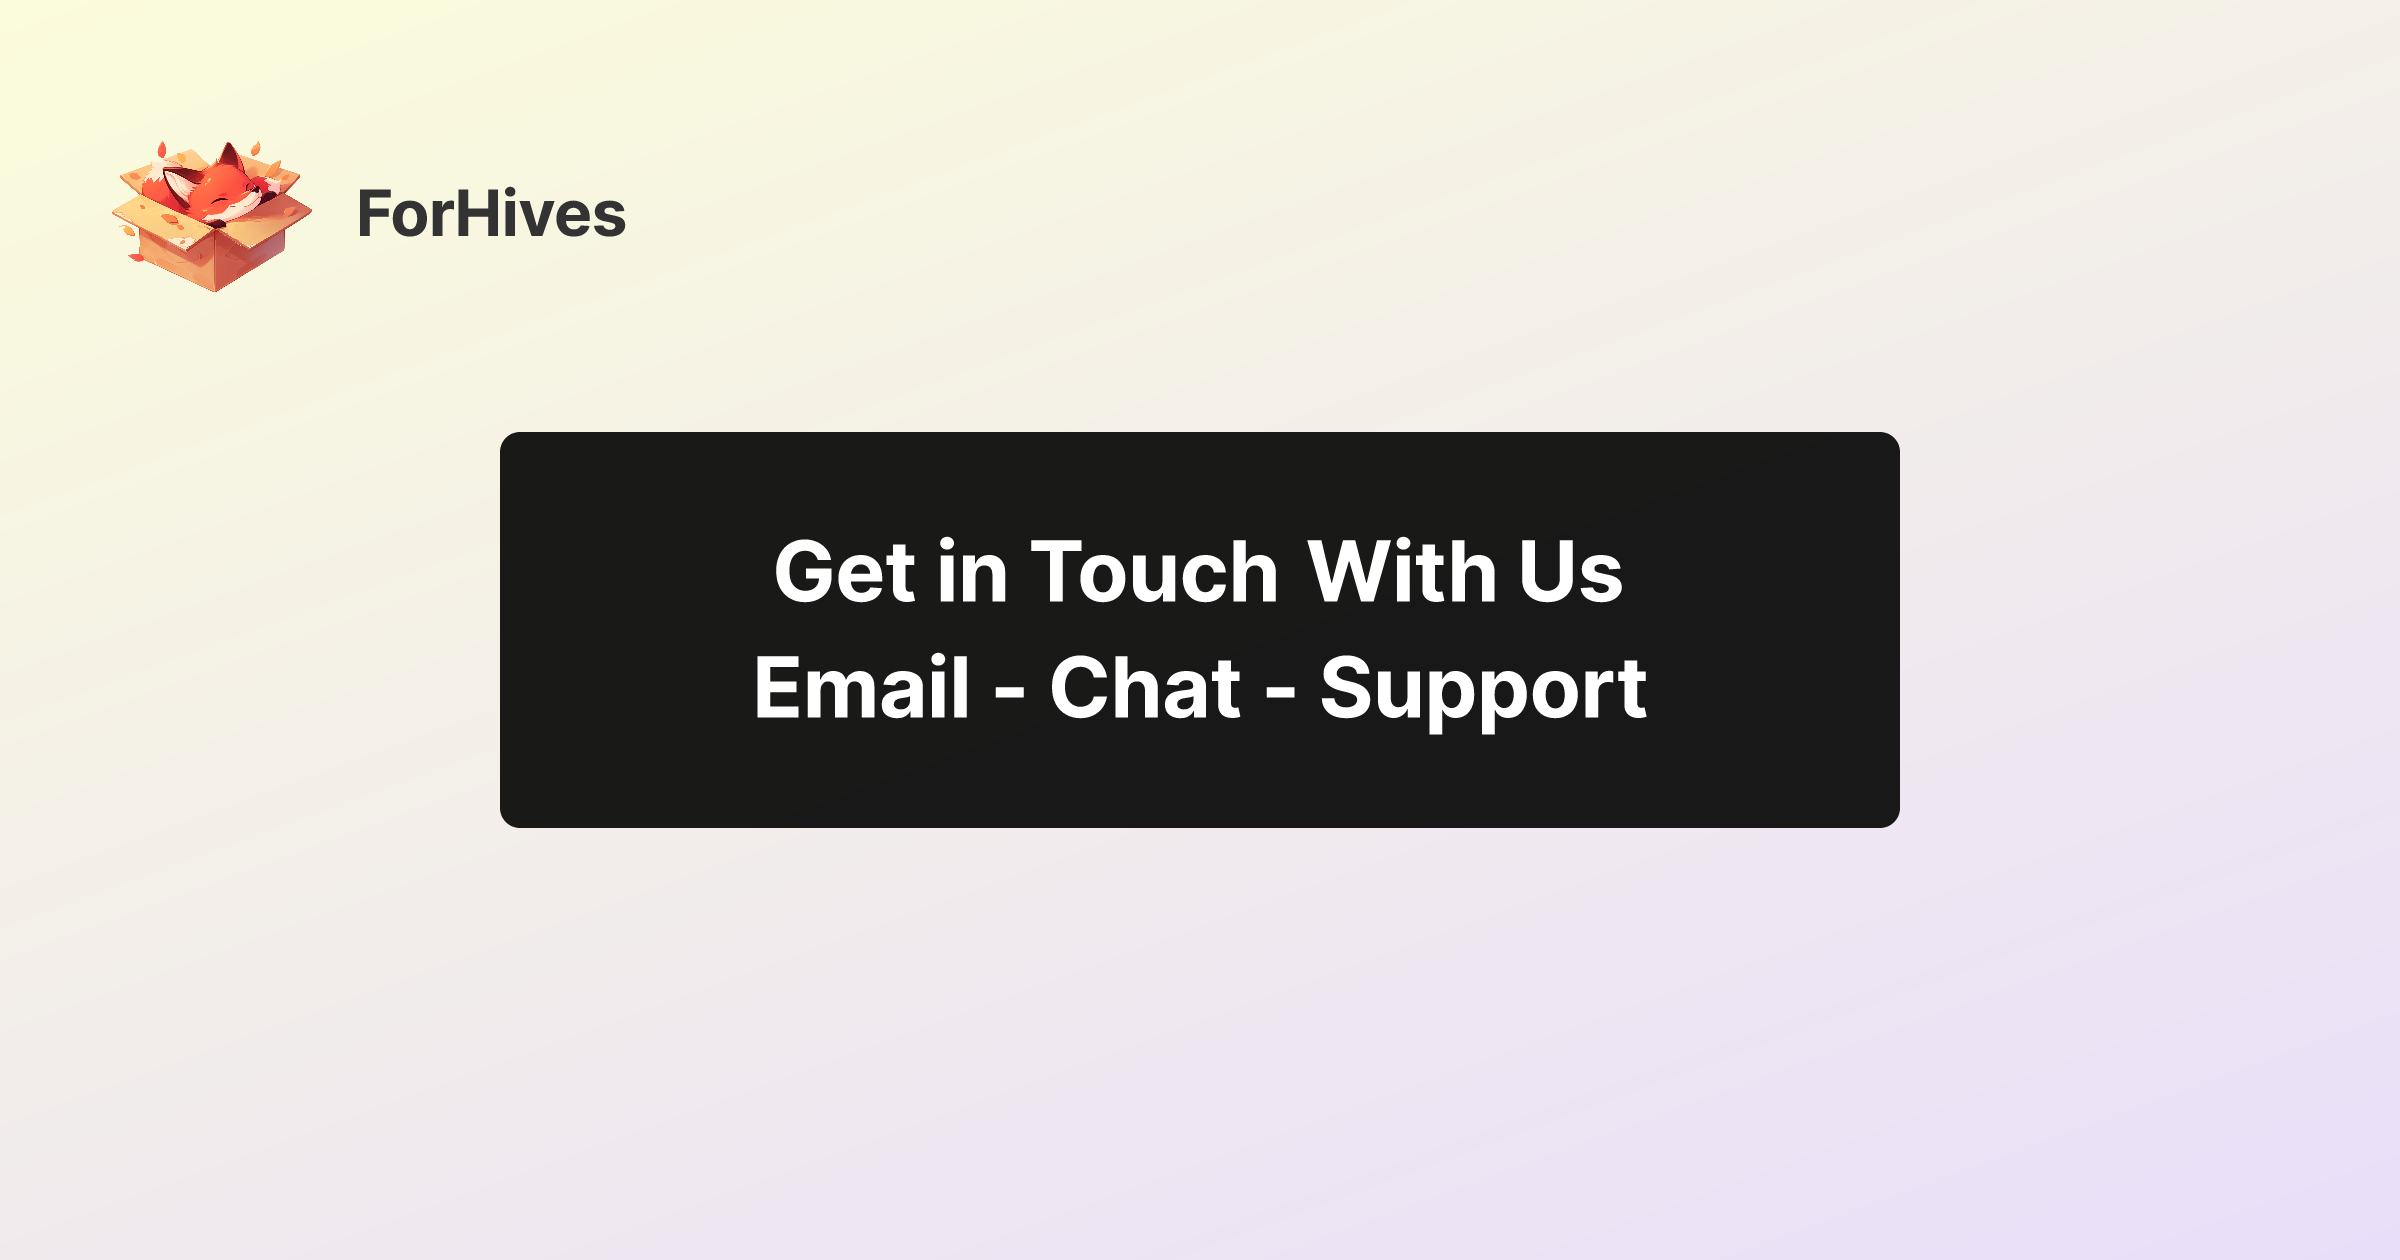
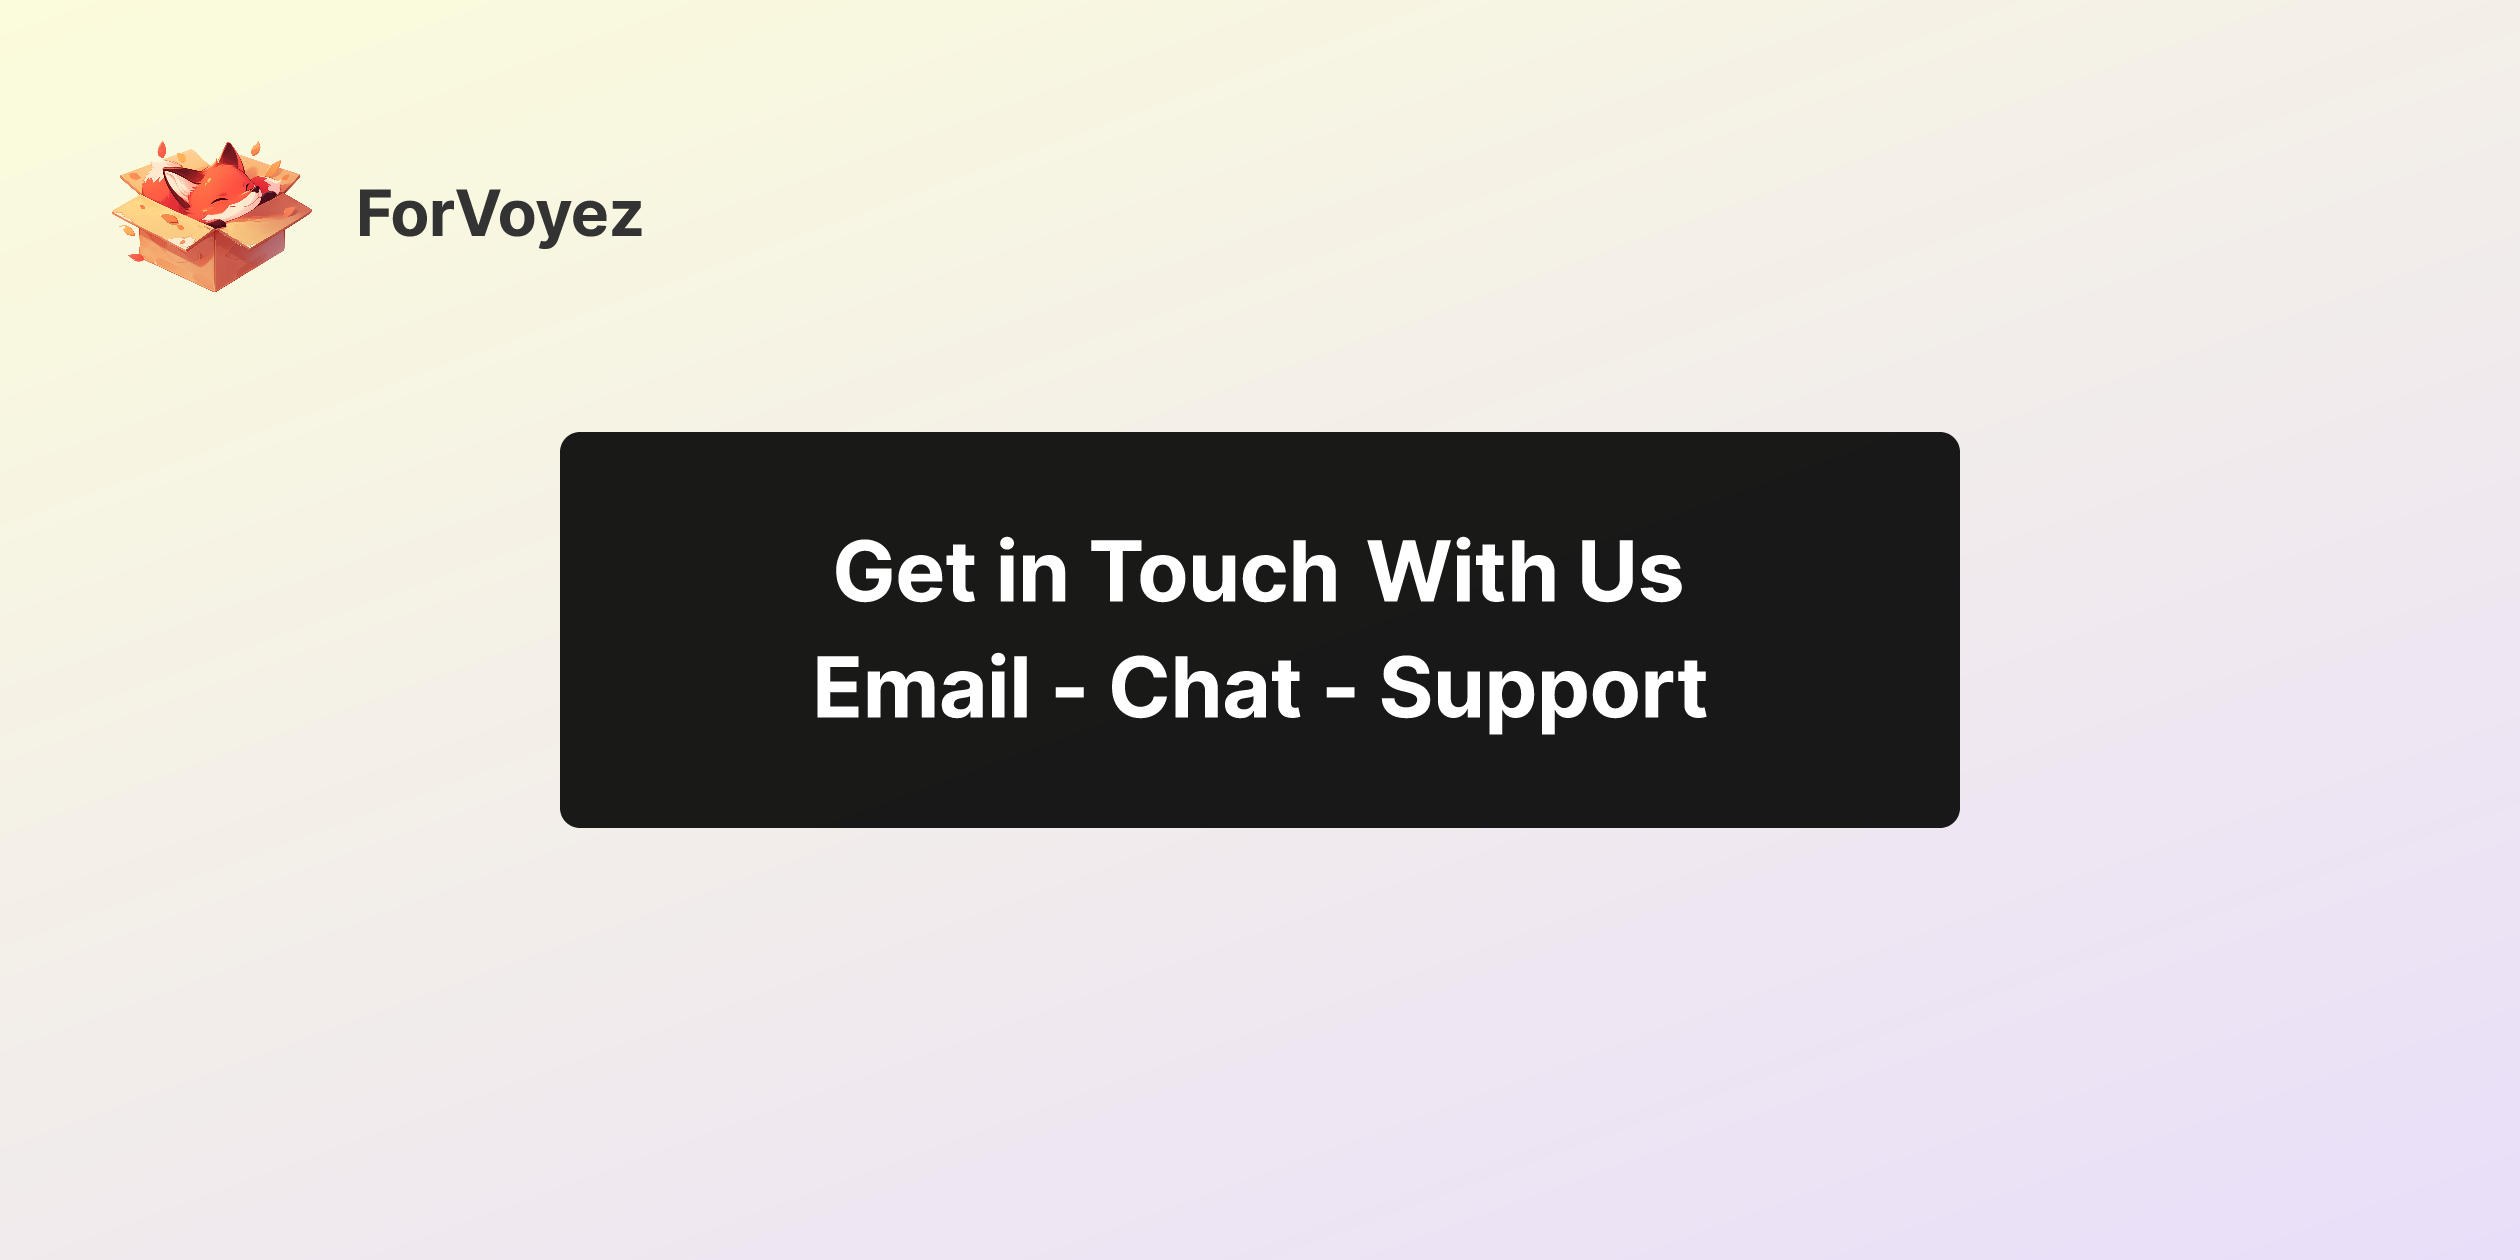
feat: update every seo elements, og etc

diff --git a/src/app/(dashboard)/app/legals/layout.js b/src/app/(dashboard)/app/legals/layout.js
@@ -1,10 +1,66 @@
+export const viewport = {
+	themeColor: [
+		{ media: '(prefers-color-scheme: light)', color: '#FF6545' },
+		{ media: '(prefers-color-scheme: dark)', color: '#FF6545' },
+	],
+	width: 'device-width',
+	initialScale: 1,
+}
+
 export const metadata = {
+	openGraph: {
+		description:
+			"Access ForVoyez's terms of service, privacy policy, and other legal documents. Understand our commitment to data protection and user privacy.",
+		images: [
+			{
+				alt: 'ForVoyez Legal Documentation',
+				url: '/og/legals.png',
+				width: 1200,
+				height: 630,
+			},
+		],
+		title: 'Legal Information & Documentation - ForVoyez',
+		type: 'website',
+	},
+	twitter: {
+		description:
+			'Official legal documentation and policies for ForVoyez image metadata services.',
+		title: 'ForVoyez Legal Documentation',
+		card: 'summary_large_image',
+		images: '/og/legals.png',
+	},
+
+	keywords: [
+		'ForVoyez legal',
+		'terms of service',
+		'privacy policy',
+		'data protection',
+		'user agreement',
+		'legal documentation',
+		'cookie policy',
+		'service terms',
+		'user rights',
+	].join(', '),
+
 	description:
-		'Access the legal information for ForVoyez, including our legal notice, privacy policy, and terms of service.',
+		"Review ForVoyez's legal documents, including Terms of Service, Privacy Policy, and legal notices. Learn about your rights and our data handling practices.",
+
+	robots: {
+		'max-image-preview': 'large',
+		'max-video-preview': -1,
+		'max-snippet': -1,
+		follow: true,
+		index: true,
+	},
+
+	title: {
+		template: '%s | Legal Information - ForVoyez',
+		default: 'Legal Information - ForVoyez',
+	},
+
 	alternates: {
 		canonical: '/app/legals',
 	},
-	title: 'Legal - ForVoyez',
 }
 
 export default function Layout({ children }) {

diff --git a/src/app/(dashboard)/app/layout.js b/src/app/(dashboard)/app/layout.js
@@ -1,12 +1,62 @@
 import { LayoutAppComponent } from '@/components/App/LayoutApp.component'
 
+// app/(dashboard)/app/layout.js
+export const viewport = {
+	themeColor: [
+		{ media: '(prefers-color-scheme: light)', color: '#FF6545' },
+		{ media: '(prefers-color-scheme: dark)', color: '#FF6545' },
+	],
+	width: 'device-width',
+	colorScheme: 'light',
+	initialScale: 1,
+}
+
 export const metadata = {
+	openGraph: {
+		images: [
+			{
+				alt: 'ForVoyez Developer Dashboard Interface',
+				url: '/og/dashboard.png',
+				width: 1200,
+				height: 630,
+			},
+		],
+		description:
+			'Access powerful image metadata generation tools, manage API keys, and monitor usage all in one place.',
+		title: 'ForVoyez Developer Platform',
+		type: 'website',
+	},
+	keywords: [
+		'developer dashboard',
+		'API management',
+		'usage monitoring',
+		'API keys',
+		'image metadata',
+		'developer tools',
+		'ForVoyez platform',
+		'API analytics',
+		'developer console',
+	].join(', '),
+
 	description:
-		'Access your ForVoyez dashboard to manage your API keys, monitor usage, and explore our powerful image metadata generation capabilities.',
+		'Manage your ForVoyez API integration, monitor usage metrics, and access our powerful image metadata generation tools in one central dashboard.',
+
+	robots: {
+		'max-snippet': -1,
+		nofollow: true,
+		follow: false,
+		noindex: true,
+		index: false,
+	},
+
+	title: {
+		default: 'Developer Dashboard - ForVoyez',
+		template: '%s | ForVoyez Dashboard',
+	},
+
 	alternates: {
 		canonical: '/app',
 	},
-	title: 'Dashboard - ForVoyez',
 }
 
 export default async function Layout({ children }) {

diff --git a/src/app/(dashboard)/app/legals/legal-notice/page.js b/src/app/(dashboard)/app/legals/legal-notice/page.js
@@ -1,10 +1,10 @@
 export const metadata = {
 	description:
-		'Find important legal information about ForVoyez, including company details, intellectual property rights, and procedures for reporting copyright infringement.',
+		"View ForVoyez's legal notice and company information. Find details about our business registration, contact information, and regulatory compliance.",
 	alternates: {
-		canonical: 'https://forvoyez.com/app/legals/legal-notice',
+		canonical: '/app/legals/legal-notice',
 	},
-	title: 'Legal Notice - ForVoyez',
+	title: 'Legal Notice',
 }
 
 export default function LegalNoticePage() {
@@ -19,7 +19,7 @@ export default function LegalNoticePage() {
 			<p className="mt-4 text-sm text-slate-600">
 				<strong>SIRET</strong>: 880 505 276 00019
 				<br />
-				<strong>Registered office</strong>: 72 Avenue Camus, 44000 Nantes,
+				<strong>Registered office</strong>: 4 Impasse de la marchaisière, 44115,
 				France
 				<br />
 				<strong>VAT number</strong>: FR 35 880505276
@@ -154,9 +154,9 @@ export default function LegalNoticePage() {
 					<br />
 					ForVoyez Legal Department
 					<br />
-					72 Avenue Camus
+					4 Impasse de la marchaisière
 					<br />
-					44000, Nantes
+					44115, France
 					<br />
 					France
 				</p>

diff --git a/src/app/(dashboard)/app/legals/terms/page.js b/src/app/(dashboard)/app/legals/terms/page.js
@@ -1,12 +1,11 @@
 export const metadata = {
 	description:
-		"Read ForVoyez's Terms of Service agreement before accessing or using our AI-powered image metadata generation services.",
+		"Read ForVoyez's Terms of Service agreement. Learn about the rules, guidelines, and policies for using our image metadata generation services.",
 	alternates: {
-		canonical: 'https://forvoyez.com/app/legals/terms',
+		canonical: '/app/legals/terms',
 	},
-	title: 'Terms of Service - ForVoyez',
+	title: 'Terms of Service',
 }
-
 export default function TermsOfServicePage() {
 	return (
 		<div className="prose mx-auto max-w-5xl flex-auto px-6">

diff --git a/src/app/(dashboard)/app/playground/page.js b/src/app/(dashboard)/app/playground/page.js
@@ -4,13 +4,9 @@ import 'react-toastify/dist/ReactToastify.css'
 
 export const metadata = {
 	description:
-		"Experiment with ForVoyez's image metadata generation API in our interactive playground and discover its powerful capabilities.",
-	alternates: {
-		canonical: '/app/playground',
-	},
-	title: 'API Playground - ForVoyez',
+		'Test and experiment with ForVoyez API endpoints in our interactive playground. Generate image metadata in real-time.',
+	title: 'API Playground',
 }
-
 export default function PlaygroundPage() {
 	return (
 		<div className="prose mx-auto max-w-5xl flex-auto">

diff --git a/src/app/(dashboard)/app/legals/privacy-policy/page.js b/src/app/(dashboard)/app/legals/privacy-policy/page.js
@@ -1,10 +1,10 @@
 export const metadata = {
 	description:
-		"Read about ForVoyez's privacy policy and how we handle your personal information when you use our AI-powered image metadata generation services.",
+		'Learn how ForVoyez handles your data. Our privacy policy outlines our data collection, usage, and protection practices.',
 	alternates: {
-		canonical: 'https://forvoyez.com/app/legals/privacy-policy',
+		canonical: '/app/legals/privacy-policy',
 	},
-	title: 'Privacy Policy - ForVoyez',
+	title: 'Privacy Policy',
 }
 
 export default function PrivacyPolicyPage() {

diff --git a/src/app/(dashboard)/app/tokens/page.js b/src/app/(dashboard)/app/tokens/page.js
@@ -2,11 +2,8 @@ import TokenList from '@/components/Tokens/TokenList'
 
 export const metadata = {
 	description:
-		'Generate, manage, and revoke your ForVoyez API tokens to securely access our image metadata generation services.',
-	alternates: {
-		canonical: '/app/tokens',
-	},
-	title: 'API Tokens - ForVoyez',
+		'Securely manage your ForVoyez API keys. Create new tokens, revoke existing ones, and monitor key usage all in one place.',
+	title: 'API Keys Management',
 }
 
 export default function TokenPage() {

diff --git a/src/app/(dashboard)/app/usage/page.js b/src/app/(dashboard)/app/usage/page.js
@@ -2,11 +2,8 @@ import { UsageChartComponent } from '@/components/usage/usageChart.component'
 
 export const metadata = {
 	description:
-		'Monitor your ForVoyez API usage, track monthly limits, and analyze your image metadata generation trends.',
-	alternates: {
-		canonical: '/app/usage',
-	},
-	title: 'Usage Statistics - ForVoyez',
+		'Monitor your API usage, track request patterns, and analyze your ForVoyez integration performance.',
+	title: 'Usage Analytics',
 }
 
 export default function UsagePage() {

diff --git a/src/app/(dashboard)/app/plans/layout.js b/src/app/(dashboard)/app/plans/layout.js
@@ -1,10 +1,7 @@
 export const metadata = {
 	description:
-		"Explore ForVoyez's flexible pricing plans designed to suit your image metadata generation needs and scale with your business.",
-	alternates: {
-		canonical: '/app/plans',
-	},
-	title: 'Pricing Plans - ForVoyez',
+		'Manage your ForVoyez subscription, view available plans, and scale your image metadata generation capabilities.',
+	title: 'Subscription Plans',
 }
 
 export default function Layout({ children }) {

diff --git a/src/app/(dashboard)/app/billing/layout.js b/src/app/(dashboard)/app/billing/layout.js
@@ -1,10 +1,7 @@
 export const metadata = {
 	description:
-		'Manage your ForVoyez subscription, update payment methods, and view your billing history.',
-	alternates: {
-		canonical: '/app/billing',
-	},
-	title: 'Billing - ForVoyez',
+		'Access your billing history, manage payment methods, and view invoices for your ForVoyez subscription.',
+	title: 'Billing & Invoices',
 }
 
 export default function Layout({ children }) {

diff --git a/src/components/Contact/Contact.component.js b/src/components/Contact/Contact.component.js
@@ -105,9 +105,9 @@ export function ContactComponent() {
 									/>
 								</dt>
 								<dd className={'font-bold'}>
-									72 Avenue Camus
+									4 Impasse de la marchaisière
 									<br />
-									44000 Nantes
+									44115 Nantes
 								</dd>
 							</div>
 							<div className="flex gap-x-4">

diff --git a/media/og_save/og_dashboard.jsx b/media/og_save/og_dashboard.jsx
@@ -57,8 +57,8 @@ export const div = () => {
 					fontSize: 42,
 				}}
 			>
-				Get in Touch With Us <br />
-				Email - Chat - Support
+				Powerful Tools for <br />
+				Image Metadata Generation
 			</div>
 		</div>
 	)
